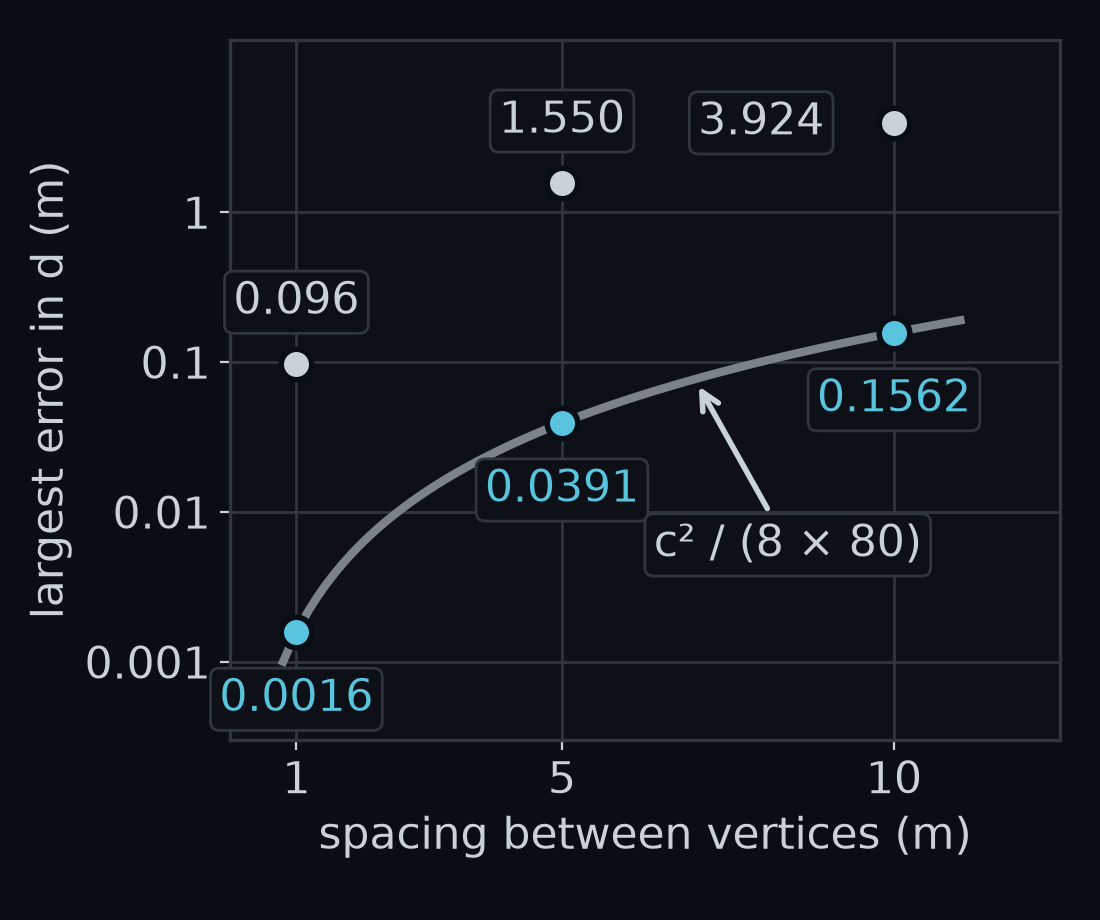
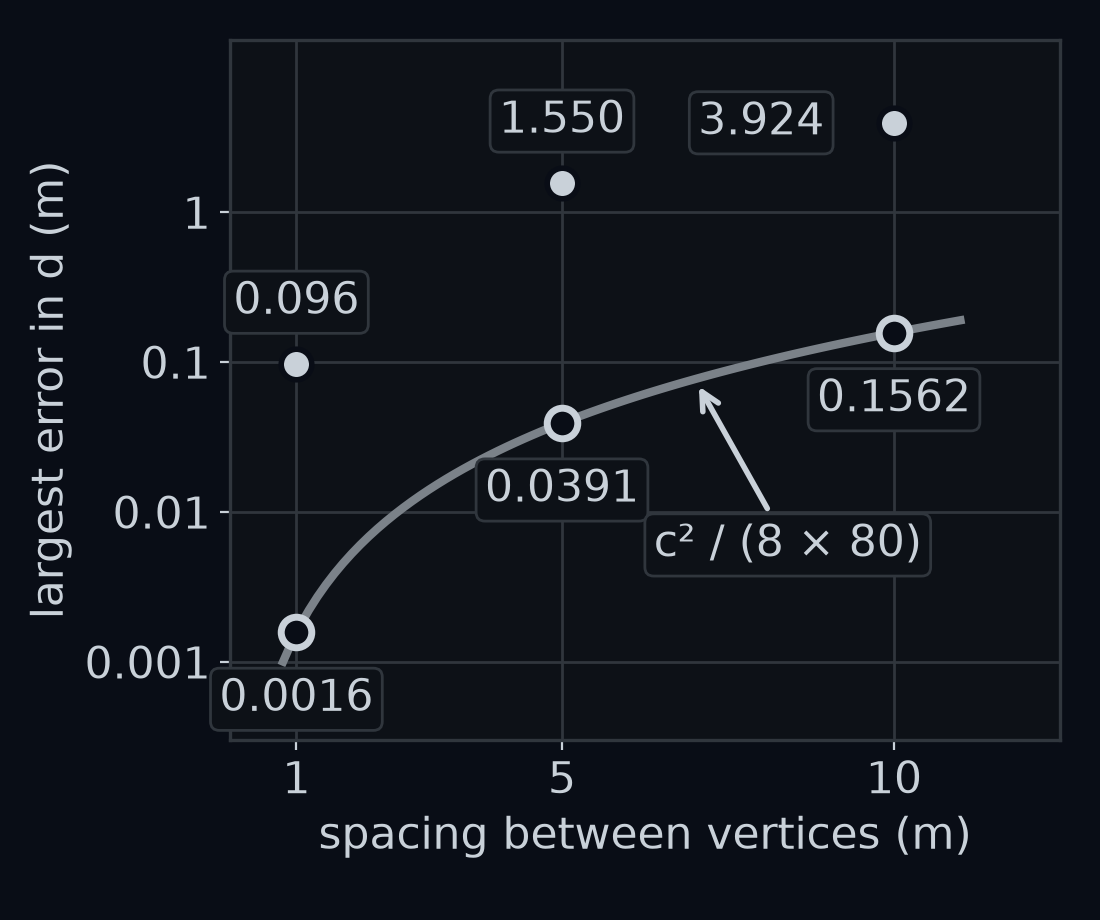
fix(1.1.3): every drawn point-to-segment distance d is neutral ink, through one helper
zero2fsd/drawing.py gains draw_offset(ax, p, q, symbol): the one place that
draws a d or e segment, d in neutral ink and e in its blue. All 1.1.3 d lines
(segment_hand, clamp, l_corner, sparse_vertex, sagitta, spacing, step400_foot,
arc_length_l, d_sideways) and the e braces go through it. A class test fails
when any course figures.py draws a raw two-point segment in e's hue (mutation
checked on sparse_vertex). Figures, alt texts, labs and bundle regenerated.

Changed region(s): [[0.1855, 0.6696, 0.34, 0.7913], [0.7418, 0.3348, 0.8964, 0.4565], [0.4327, 0.4261, 0.5873, 0.5478]]

diff --git a/course/1.1.3-the-roads-own-coordinates/figures.py b/course/1.1.3-the-roads-own-coordinates/figures.py
@@ -13,7 +13,7 @@ from matplotlib.textpath import TextPath
 from matplotlib.ticker import FuncFormatter, MaxNLocator
 
 from zero2fsd.car import Car, run
-from zero2fsd.drawing import LABEL_GAP
+from zero2fsd.drawing import LABEL_GAP, draw_offset
 from zero2fsd.geom import lane_errors, project_to_segment, to_road_frame, world_to_ego, wrap_angle
 from zero2fsd.palette import CHROME, QUANTITY, SCENE, shades
 from zero2fsd.sim import Road, make_scenario
@@ -206,7 +206,7 @@ def result_first(path):
     _band(bot, road, lap.s[k] - 6, lap.s[k] + 6)
     _paint(bot, road, lap.s[k] - 6, lap.s[k] + 6)
     _car(bot, (*car, yaw))
-    _brace(bot, lane_pt, car, BLUE)
+    draw_offset(bot, lane_pt, car, "e")
     _pointer(bot, "0.528 m left of\nthe lane centre", 0.5 * (lane_pt + car), (car[0] + 0.9, car[1] - 1.9), colour=BLUE)
     _xy_axes(bot)
     assert round(lap.s[k], 3) == 159.011 and round(lap.e[k], 3) == 0.528 and round(lap.t[k], 2) == 20.0
@@ -323,19 +323,19 @@ def segment_hand(path):
     ax.plot(*zip(A, B), color=TEXT, lw=3)
     ax.grid(color=BORDER, lw=1)
     ax.set_axisbelow(True)
-    ax.plot(*zip(foot, P), color=BLUE, lw=3)
+    draw_offset(ax, foot, P, "d")
     _right_angle(ax, foot, U, (-U[1], U[0]), 0.35)
     off = np.array([U[1], -U[0]]) * 0.45
     _brace(ax, A + off, foot + off, TEXT)
     _pointer(ax, "forward part 6.0", A + 3.0 * U + off, (8.2, 1.7))
-    _tag(ax, 3.4, 5.8, "left part 3.0", color=BLUE)
+    _tag(ax, 3.4, 5.8, "left part 3.0")
     _tag(ax, 1.3, 1.9, "a (2, 1)")
     _tag(ax, 10.4, 7.7, "b (10, 7)")
     _tag(ax, 3.2, 3.8, "10 m")
     for pt in (A, B, P):
         _dot(ax, *pt, TEXT, 10)
     _tag(ax, 5.0, 7.8, "p (5, 7)")
-    _dot(ax, *foot, BLUE, 10)
+    _dot(ax, *foot, TEXT, 10)
     _pointer(ax, "foot (6.8, 4.6)", foot, (9.3, 3.5))
     ax.set(xlabel="east (m)", ylabel="north (m)", xticks=np.arange(0, 13, 2), yticks=np.arange(0, 9, 2))
     _save(fig, path)
@@ -364,10 +364,10 @@ def clamp(path):
     _tag(top, 12.0, 9.7, "foot (11.6, 8.2)")
     _tag(top, 14.4, 7.2, "4.0 m")
     bot.set_title("With the clamp")
-    bot.plot(*zip(B, Q), color=BLUE, lw=3)
-    _dot(bot, *B, BLUE, 10)
+    draw_offset(bot, B, Q, "d")
+    _dot(bot, *B, TEXT, 10)
     _tag(bot, 3.6, 9.4, "forward part\ncut to 10", ha="center")
-    _tag(bot, 11.2, 4.2, "4.472 m", color=BLUE)
+    _tag(bot, 11.2, 4.2, "4.472 m")
     _save(fig, path)
 
 
@@ -380,7 +380,7 @@ def l_corner(path):
     ax.add_patch(Rectangle((0, 0), 10, 10, fc=TEXT, alpha=0.10, ec=CLEAR, lw=0))
     ax.plot(*L_ROAD.T, color=TEXT, lw=4, zorder=3)
     ax.plot(*zip(p, (8.0, 0.0)), color=TEXT, lw=2, ls="--")
-    ax.plot(*zip(p, (10.0, 3.0)), color=BLUE, lw=3)
+    draw_offset(ax, p, (10.0, 3.0), "d")
     ax.plot(*zip(tie, (10.0, 0.0)), color=TEXT, lw=2, ls="--")
     for pt in (p, tie, (8.0, 0.0), (10.0, 3.0), (10.0, 0.0)):
         _dot(ax, *pt, TEXT, 9)
@@ -388,7 +388,7 @@ def l_corner(path):
     _tag(ax, 12.2, 5.5, "right, −")
     _tag(ax, 6.2, 3.2, "p (8, 3)")
     _tag(ax, 6.8, 1.4, "3.0 m")
-    _tag(ax, 11.6, 1.7, "(10, 3)\n2.0 m", color=BLUE)
+    _tag(ax, 11.6, 1.7, "(10, 3)\n2.0 m")
     _tag(ax, 8.0, -1.0, "(8, 0)")
     _tag(ax, 12.0, -3.2, "(12, −2)")
     _tag(ax, 7.2, -2.9, "2.828 m, a tie")
@@ -412,7 +412,7 @@ def d_sideways(path):
     _tag(ax, 2.4, -0.8, "d₁ = 2.64 m", color=CORAL)
     _tag(ax, 7.0, -0.8, "d₂ = 7.19 m", color=CORAL)
     _tag(ax, 3.6, -4.2, "forward", color=CORAL)
-    _brace(ax, (-0.9, 0.0), (-0.9, EGO_LANE_CENTER), TEXT)
+    draw_offset(ax, (-0.9, 0.0), (-0.9, EGO_LANE_CENTER), "d")
     _tag(ax, -2.35, -0.9, "d = −1.8 m")
     _tag(ax, -2.3, -2.7, "sideways")
     ax.set(xlabel="east (m)", ylabel="north (m)")
@@ -430,7 +430,7 @@ def arc_length_l(path):
     _brace(ax, (10.8, 0.0), (10.8, 3.0), TEXT)
     _tag(ax, 12.4, 1.5, "t = 3 m")
     _tag(ax, 4.2, 6.5, "s = 10 + 3 = 13")
-    ax.plot(*zip((10.0, 3.0), p), color=TEXT, lw=3)
+    draw_offset(ax, (10.0, 3.0), p, "d")
     _dot(ax, *p, TEXT, 9)
     _tag(ax, 8.6, 4.2, "d = +2")
     ax.set(xlabel="east (m)", ylabel="north (m)")
@@ -458,7 +458,7 @@ def step400_foot(path):
     _line(ax, pts[:, 0], pts[:, 1], color=YELLOW, lw=2, zorder=2)
     _line(ax, pts[:, 0], pts[:, 1], marker="o", ms=6, mfc=DIM, mec=DIM, ls="none", zorder=3)
     ax.plot(*zip(road._a[i], road._b[i]), color=TEXT, lw=5, zorder=4)
-    ax.plot(*zip(foot, car), color=TEXT, lw=3, zorder=4)
+    draw_offset(ax, foot, car, "d")
     _dot(ax, *car, TEXT, 11)
     _dot(ax, *foot, TEXT, 10)
     _pointer(ax, "segment 1590\nof 7028", road._b[i], (mid[0] + 1.1, mid[1] + 1.45))
@@ -631,10 +631,10 @@ def sparse_vertex(path):
     _line(ax, closed[:, 0], closed[:, 1], color=DIM, lw=3, zorder=3)
     _line(ax, pts[:, 0], pts[:, 1], marker="o", ms=11, mfc=TEXT, mec=BACKGROUND, mew=2, ls="none", zorder=5)
     ax.plot(*zip(car, vertex), color=TEXT, lw=2.5, ls="--", zorder=4)
-    ax.plot(*zip(car, foot), color=BLUE, lw=3, zorder=6)
+    draw_offset(ax, car, foot, "d")
     _dot(ax, *car, TEXT, 11)
     _pointer(ax, "nearest vertex:\n1.550 m out", 0.5 * (car + vertex), (car[0] + 1.0, car[1] - 3.0))
-    _pointer(ax, "segment:\n0.039 m out", 0.5 * (car + foot), (car[0] - 1.8, car[1] + 1.6), colour=BLUE)
+    _pointer(ax, "segment:\n0.039 m out", 0.5 * (car + foot), (car[0] - 1.8, car[1] + 1.6))
     _xy_axes(ax)
     _save(fig, path)
 
@@ -652,8 +652,8 @@ def sagitta(path):
     ax.plot(u, v, color=YELLOW, lw=3, zorder=3)
     for x in (-chord / 2, chord / 2):
         _dot(ax, x, 0.0, TEXT, 11)
-    _brace(ax, (0.0, 0.0), (0.0, sag), BLUE)
-    _pointer(ax, "0.0391 m", (0.0, sag / 2), (1.5, 0.075), colour=BLUE)
+    draw_offset(ax, (0.0, 0.0), (0.0, sag), "d")
+    _pointer(ax, "0.0391 m", (0.0, sag / 2), (1.5, 0.075))
     _tag(ax, 0.0, -0.014, "5 m apart")
     _tag(ax, -0.1, 0.143, "chord middle: 79.9609 m\nfrom the centre, not 80")
     _tag(ax, 0.0, 0.105, "c² / (8R) = 25 / 640")
@@ -680,10 +680,10 @@ def spacing(path):
     c = np.linspace(0.8, 11.0, 80)
     ax.plot(c, c**2 / (8 * GENTLE_RADIUS), color=DIM, lw=3, zorder=2)
     ax.plot(gaps, [e[0] for e in errors], marker="o", ms=11, mfc=TEXT, mec=BACKGROUND, mew=2, ls="none", zorder=5)
-    ax.plot(gaps, [e[1] for e in errors], marker="o", ms=11, mfc=BLUE, mec=BACKGROUND, mew=2, ls="none", zorder=6)
+    ax.plot(gaps, [e[1] for e in errors], marker="o", ms=11, mfc=BACKGROUND, mec=TEXT, mew=2.5, ls="none", zorder=6)
     for g, (near, seg) in zip(gaps, errors):
         _tag(ax, 8.0 if g == 10.0 else g, near if g == 10.0 else near * 2.6, f"{near:.3f}")
-        _tag(ax, g, seg / 2.8, f"{seg:.4f}", color=BLUE)
+        _tag(ax, g, seg / 2.8, f"{seg:.4f}")
     _pointer(ax, "c² / (8 × 80)", (7.0, 49 / 640), (8.4, 0.006))
     ax.set_xticks(gaps)
     ax.set_xticklabels(["1", "5", "10"])
@@ -770,7 +770,7 @@ def challenge_setup(path):
     ax.plot(*zip(car, car + 3.0 * np.array([math.cos(wide), math.sin(wide)])), color=PINK, lw=2, ls="--", zorder=3)
     theta = np.linspace(yaw - 0.04, wide, 12)
     ax.plot(car[0] + 2.5 * np.cos(theta), car[1] + 2.5 * np.sin(theta), color=PINK, lw=3, zorder=5)
-    _brace(ax, lane, car, BLUE, lw=4)
+    draw_offset(ax, lane, car, "e", lw=4)
     _car(ax, (x, y, yaw), length=1.5)  # behind the front axle, so the ego frame's x axis ahead of it does not hide it
     _frame(ax, (x, y, yaw), QUANTITY["ego"], "", length=1.6)
     left_of = np.array([-ahead[1], ahead[0]])

diff --git a/tests/zero2fsd/test_figure_colours.py b/tests/zero2fsd/test_figure_colours.py
@@ -408,3 +408,77 @@ def test_no_figure_label_names_a_symbol_in_another_symbols_colour(source, tmp_pa
     make_unit_figures(source.parent, tmp_path)
     assert drawn, "no figure was drawn"
     assert {name: found for name, found in drawn.items() if found} == {}
+
+
+# --- G9 (ruling 10c): a segment between two points is never drawn raw in e's colour; `drawing.draw_offset` is the one place that does ---
+
+
+def _is_segment_call(node: ast.Call) -> bool:
+    """`ax.plot(*zip(p, q), ...)`, `_brace(ax, p, q, ...)` and `ax.annotate("", ...)`: the calls that draw a line between two chosen points."""
+    func = node.func
+    name = func.attr if isinstance(func, ast.Attribute) else getattr(func, "id", "")
+    if name == "plot":
+        return bool(node.args) and isinstance(node.args[0], ast.Starred) and isinstance(node.args[0].value, ast.Call) and getattr(node.args[0].value.func, "id", "") == "zip"
+    if name == "annotate":
+        return bool(node.args) and isinstance(node.args[0], ast.Constant) and node.args[0].value == ""
+    return name == "_brace"
+
+
+def e_coloured_segments(source: str, e_names: set[str]) -> list[int]:
+    """Lines of the raw segment calls in `source` that mention e's colour: a name bound to it (`e_names`) or QUANTITY["e_off"]."""
+    lines = []
+    for node in ast.walk(ast.parse(source)):
+        if isinstance(node, ast.Call) and _is_segment_call(node):
+            mentions = [n for n in ast.walk(node) if (isinstance(n, ast.Name) and n.id in e_names)
+                        or (isinstance(n, ast.Subscript) and ast.unparse(n) == "QUANTITY['e_off']")]
+            if mentions:
+                lines.append(node.lineno)
+    return lines
+
+
+SEGMENT_VIOLATIONS = {
+    "plot between two points": 'ax.plot(*zip(foot, car), color=BLUE, lw=3)\n',
+    "brace": '_brace(ax, a, b, BLUE)\n',
+    "annotate dimension line": 'ax.annotate("", xy=q, xytext=p, arrowprops={"color": QUANTITY["e_off"]})\n',
+    "plot in a keyword": 'bot.plot(*zip(B, Q), lw=3, color=BLUE)\n',
+}
+SEGMENT_ALLOWED = {
+    "the helper": 'draw_offset(ax, foot, car, "d")\n',
+    "neutral ink": 'ax.plot(*zip(foot, car), color=TEXT, lw=3)\n_brace(ax, a, b, TEXT)\n',
+    "another quantity": 'ax.plot(*zip(car, tip), color=PINK, lw=2)\n',
+    "a series in e's colour": 'ax.plot(lap.t, lap.e, color=BLUE, lw=2)\n',
+}
+
+
+@pytest.mark.parametrize("source", SEGMENT_VIOLATIONS.values(), ids=SEGMENT_VIOLATIONS)
+def test_a_raw_segment_in_e_blue_is_flagged(source):
+    assert e_coloured_segments(source, {"BLUE"}) == [1]
+
+
+@pytest.mark.parametrize("source", SEGMENT_ALLOWED.values(), ids=SEGMENT_ALLOWED)
+def test_the_helper_neutral_segments_other_quantities_and_series_are_not_flagged(source):
+    assert e_coloured_segments(source, {"BLUE"}) == []
+
+
+def test_draw_offset_draws_d_in_neutral_ink_and_e_in_blue_and_nothing_else():
+    from zero2fsd.drawing import draw_offset
+    colours = {}
+    for symbol in ("d", "e"):
+        ax = Figure().subplots()
+        draw_offset(ax, (0, 0), (1, 1), symbol)
+        colours[symbol] = to_hex(ax.texts[0].arrow_patch.get_edgecolor())
+    assert colours == {"d": CHROME["text"].lower(), "e": QUANTITY["e_off"].lower()}
+    with pytest.raises(KeyError):
+        draw_offset(Figure().subplots(), (0, 0), (1, 1), "psi")
+
+
+@pytest.mark.parametrize("source", SCANNED[:-1], ids=[p.parent.name for p in SCANNED[:-1]])
+def test_no_figure_module_draws_a_raw_segment_in_e_blue(source):
+    """Distances to the road (d) are drawn by draw_offset, in neutral ink; e's blue on a hand-drawn segment is how d went blue."""
+    import importlib.util
+    spec = importlib.util.spec_from_file_location(f"colours_{source.parent.name.replace('.', '_').replace('-', '_')}", source)
+    module = importlib.util.module_from_spec(spec)
+    spec.loader.exec_module(module)
+    e_hues = {shade.upper() for shade in shades(QUANTITY["e_off"], 4)}
+    e_names = {name for name, value in vars(module).items() if isinstance(value, str) and value.upper() in e_hues}
+    assert e_coloured_segments(source.read_text(encoding="utf-8"), e_names) == []

diff --git a/zero2fsd/drawing.py b/zero2fsd/drawing.py
@@ -1,7 +1,7 @@
 """Matplotlib drawing helpers shared by the course's figures: one look for every frame and track.
 
-Ruling F: nothing here sets a dpi, a colour or a font size. Colours come in as arguments (callers take them from
-`zero2fsd.palette`); text inherits `rcParams["font.size"]` unless the caller passes `fontsize=`, because the legal
+Ruling F: nothing here sets a dpi, a colour literal or a font size. Colours come in as arguments (callers take them from
+`zero2fsd.palette`), except `draw_offset`, which owns the one colour per sideways symbol; text inherits `rcParams["font.size"]` unless the caller passes `fontsize=`, because the legal
 size depends on the figure's width.
 """
 from __future__ import annotations
@@ -11,7 +11,9 @@ import numpy as np
 from matplotlib.patches import FancyArrowPatch
 
 from .geom import Pose, heading_vector
+from .palette import CHROME, QUANTITY
 
+OFFSET_COLOUR = {"d": CHROME["text"], "e": QUANTITY["e_off"]}  # ruling 10b/10c: e is blue; d, a distance to the road, is untinted neutral ink
 LABEL_GAP = 0.18  # label distance beyond an arrow tip, as a fraction of the arrow length
 
 
@@ -32,3 +34,11 @@ def draw_track(ax, tel, colour: str) -> None:
     """The path a drive took, `tel.x` against `tel.y`, to scale."""
     ax.plot(tel.x, tel.y, color=colour)
     ax.set_aspect("equal", adjustable="datalim")
+
+
+def draw_offset(ax, p, q, symbol: str, lw: float = 3) -> None:
+    """A dimension line from `p` to `q` for the sideways symbol `symbol` ("d": a point's distance to the road, "e": the lateral error).
+
+    The one place a figure draws one: the symbol picks the colour, so d is never drawn in e's blue.
+    """
+    ax.annotate("", xy=q, xytext=p, arrowprops={"arrowstyle": "|-|", "color": OFFSET_COLOUR[symbol], "lw": lw, "shrinkA": 0, "shrinkB": 0, "mutation_scale": 7})

diff --git a/course/1.1.3-the-roads-own-coordinates/lecture.md b/course/1.1.3-the-roads-own-coordinates/lecture.md
@@ -54,7 +54,7 @@ $$\begin{aligned}\text{forward} &= (\mathbf{p}-\mathbf{a})\cdot\hat{u}\\ &= 3(0.
 
 **Guess first:** where on the segment is the point nearest $\mathbf{p}$, and how far is $\mathbf{p}$ from it?
 
-![The hand example on a grid in metres. A grey segment runs from a at (2, 1) to b at (10, 7), 10 m long. The point p, at (5, 7), sits to its left. A grey brace along the segment, from a to the foot at (6.8, 4.6), is labelled forward part 6.0. A blue line from the foot to p, at right angles to the segment, is labelled left part 3.0.](figures/segment_hand.png)
+![The hand example on a grid in metres. A grey segment runs from a at (2, 1) to b at (10, 7), 10 m long. The point p, at (5, 7), sits to its left. A grey brace along the segment, from a to the foot at (6.8, 4.6), is labelled forward part 6.0. A grey line from the foot to p, at right angles to the segment, is labelled left part 3.0.](figures/segment_hand.png)
 
 **Answer:** 6 m along the segment from $\mathbf{a}$, at $\mathbf{a} + 6\,\hat{u} = (6.8, 4.6)$, and 3.0 m away, exactly the left part. Walking 6 m forward from $\mathbf{a}$ brings you level with $\mathbf{p}$, and what is left is a step straight to the left.
 
@@ -81,7 +81,7 @@ The forward part, 12 m, is longer than the segment, 10 m.
 
 **Guess first:** is $\mathbf{q}$ really 4.0 m from the segment?
 
-![Two stacked panels for the point q at (14, 5) and the same segment from a (2, 1) to b (10, 7). Top, without the clamp: the foot lands at (11.6, 8.2), past the end b, on a dashed grey extension of the segment, and the line to it is 4.0 m long. Bottom, with the clamp: the forward part is cut to the segment's length, 10, the foot is b itself, and the blue line from b to q is 4.472 m long, the true distance to the nearest point of the segment.](figures/clamp.png)
+![Two stacked panels for the point q at (14, 5) and the same segment from a (2, 1) to b (10, 7). Top, without the clamp: the foot lands at (11.6, 8.2), past the end b, on a dashed grey extension of the segment, and the line to it is 4.0 m long. Bottom, with the clamp: the forward part is cut to the segment's length, 10, the foot is b itself, and the grey line from b to q is 4.472 m long, the true distance to the nearest point of the segment.](figures/clamp.png)
 
 **Answer:** no. 4.0 m is the distance to (11.6, 8.2), a point on the segment's line 2 m past $\mathbf{b}$, where there is no road. The nearest point that is on the segment is its end $\mathbf{b}$, and $\mathbf{q}$ is $\sqrt{4^2 + 2^2} = \sqrt{20} = 4.472$ m from it. The rule needs one more step: **clamp** $t$, which means cutting it to 0 if it is negative and to the segment's length if it is longer. In NumPy that is `np.clip(t, 0, length)`. For $\mathbf{q}$, $t = 12$ becomes $t = 10$, and the foot becomes $\mathbf{b}$.
 
@@ -93,7 +93,7 @@ A road has thousands of segments, and each one gives the point its own foot. The
 
 **Guess first:** which segment's foot is nearer $\mathbf{p}$?
 
-![An L-shaped road of two grey segments, from (0, 0) east to (10, 0) and then north to (10, 10). The side to the road's left is shaded light grey and labelled left, plus; the side to its right is labelled right, minus. The point p at (8, 3) has two candidate feet: on the first segment at (8, 0), 3.0 m away, drawn dashed; on the second at (10, 3), 2.0 m away, drawn solid blue. A second point, (12, −2), outside the corner, is 2.828 m from the shared vertex (10, 0), which is the foot on both segments.](figures/l_corner.png)
+![An L-shaped road of two grey segments, from (0, 0) east to (10, 0) and then north to (10, 10). The side to the road's left is shaded light grey and labelled left, plus; the side to its right is labelled right, minus. The point p at (8, 3) has two candidate feet: on the first segment at (8, 0), 3.0 m away, drawn dashed; on the second at (10, 3), 2.0 m away, drawn solid. A second point, (12, −2), outside the corner, is 2.828 m from the shared vertex (10, 0), which is the foot on both segments.](figures/l_corner.png)
 
 **Answer:** the second. Its foot, (10, 3), is 2.0 m away, against 3.0 m for the first segment's foot at (8, 0). You do not need to know in advance which segment is nearest. Project the point onto every segment, then pick the smallest distance. The position of the smallest number in a list is called its **argmin**, read "arg min", and NumPy's `np.argmin` finds it. The second segment runs north, so its left is west, and $\mathbf{p}$ is west of it: the left part is positive, and the point is 2.0 m to the left.
 
@@ -185,7 +185,7 @@ First, a shortcut that looked harmless stops working. Skip the segments: find th
 
 **Guess first:** with a vertex every 5 m, how far out can the shortcut be?
 
-![The first bend of gentle with a vertex only every 5 m, zoomed in around the car at 43.30 s. Grey dots mark the vertices along the yellow line. The dashed grey line to the nearest vertex is long and slanted; the blue line at right angles to the nearest segment is short. The shortcut is 1.550 m out; the projection onto the segment is 0.039 m out.](figures/sparse_vertex.png)
+![The first bend of gentle with a vertex only every 5 m, zoomed in around the car at 43.30 s. Grey dots mark the vertices along the yellow line. The dashed grey line to the nearest vertex is long and slanted; the solid grey line at right angles to the nearest segment is short. The shortcut is 1.550 m out; the projection onto the segment is 0.039 m out.](figures/sparse_vertex.png)
 
 **Answer:** by 1.550 m, at 43.30 s, with the car 1.27 m from the line. Projecting onto the 5 m segments is out by only 0.0391 m. The nearest vertex is not the nearest point. Midway between two vertices 5 m apart on a straight, the nearest vertex is 2.5 m along the road, so a car 1.8 m from the line is $\sqrt{1.8^2 + 2.5^2} = 3.081$ m from it, 1.281 m too far.
 
@@ -193,7 +193,7 @@ Second, even the segments miss. A straight segment between two points of a circl
 
 $$\begin{aligned}\text{sagitta} &\approx \frac{c^2}{8R}\end{aligned}$$
 
-![A 5 m chord of gentle's first bend, radius 80 m, with the sideways scale stretched so the gap shows. The yellow arc and the grey chord join two vertices 5 m apart. A blue brace at the chord's middle, labelled 0.0391 m, spans the gap between chord and arc: the chord's middle is 79.9609 m from the bend's centre instead of 80.](figures/sagitta.png)
+![A 5 m chord of gentle's first bend, radius 80 m, with the sideways scale stretched so the gap shows. The yellow arc and the grey chord join two vertices 5 m apart. A grey brace at the chord's middle, labelled 0.0391 m, spans the gap between chord and arc: the chord's middle is 79.9609 m from the bend's centre instead of 80.](figures/sagitta.png)
 
 <details>
 <summary>How we got c² / (8R)</summary>
@@ -210,7 +210,7 @@ Both ends of the chord sit that far from your line, so the straight chord betwee
 
 **Guess first:** at 1 m and 10 m spacing, will projecting onto segments still miss by exactly the sagitta?
 
-![The largest error in d over a lap of gentle, against the spacing between vertices, 1, 5 and 10 m, on a scale where each grid line is ten times the one below. Grey dots, the nearest-vertex shortcut: 0.096, 1.550 and 3.924 m. Blue dots, projection onto segments: 0.0016, 0.0391 and 0.1562 m, each sitting on a grey curve labelled c squared over 8 times 80.](figures/spacing.png)
+![The largest error in d over a lap of gentle, against the spacing between vertices, 1, 5 and 10 m, on a scale where each grid line is ten times the one below. Grey dots, the nearest-vertex shortcut: 0.096, 1.550 and 3.924 m. Rings, projection onto segments: 0.0016, 0.0391 and 0.1562 m, each sitting on a grey curve labelled c squared over 8 times 80.](figures/spacing.png)
 
 **Answer:** yes, to four decimal places. Projection misses by 0.0016, 0.0391 and 0.1562 m at 1, 5 and 10 m, and $c^2/(8 \times 80)$ gives the same three numbers. The formula is an approximation, but here it is good to four decimals. The shortcut is 61 times worse at 1 m, 40 times at 5 m and 25 times at 10 m.
 
